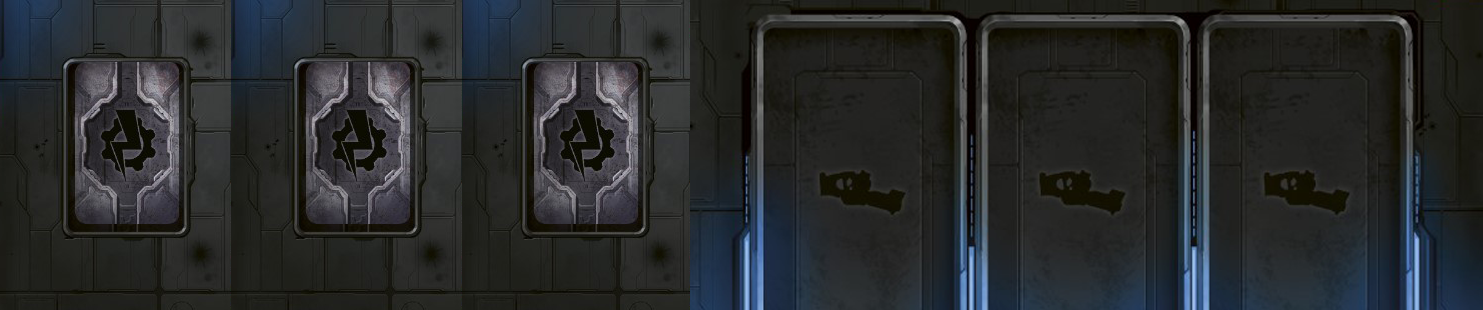
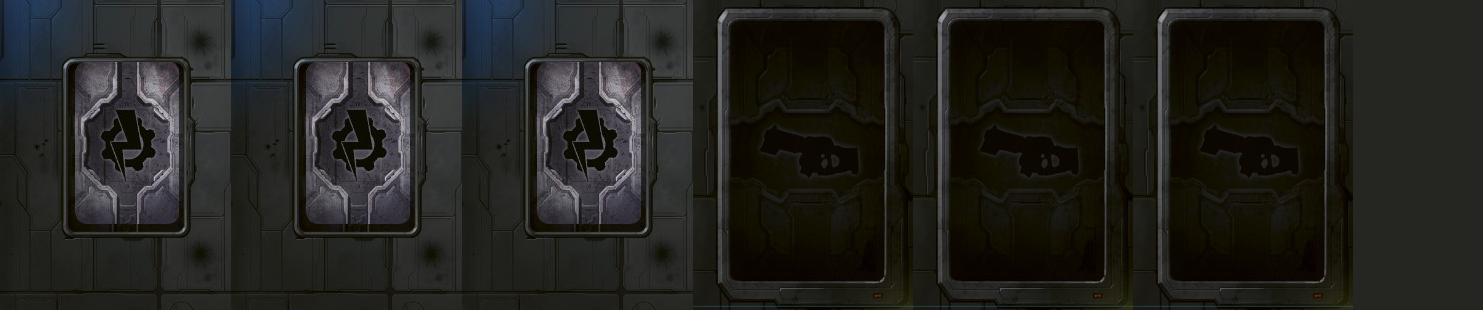
added droplet and skull

diff --git a/src/main/java/it/polimi/ingsw/client/view/ImageExample.java b/src/main/java/it/polimi/ingsw/client/view/ImageExample.java
@@ -1,24 +1,23 @@
 package it.polimi.ingsw.client.view;
-
-
 import javafx.animation.PauseTransition;
 import javafx.application.Application;
+import javafx.beans.value.ChangeListener;
+import javafx.beans.value.ObservableValue;
 import javafx.event.EventHandler;
 import javafx.geometry.Insets;
 import javafx.scene.Scene;
 import javafx.scene.control.Button;
 import javafx.scene.image.Image;
 import javafx.scene.image.ImageView;
+import javafx.scene.input.KeyCombination;
 import javafx.scene.input.MouseEvent;
 import javafx.scene.layout.BorderPane;
 import javafx.scene.layout.Pane;
 import javafx.stage.Stage;
 import javafx.util.Duration;
-
 import java.io.FileInputStream;
 import java.io.FileNotFoundException;
 import java.net.URL;
-
 public class ImageExample extends Application {
 
     private final static String MAP1 = "/img/maps/4.png";
@@ -48,6 +47,8 @@ public class ImageExample extends Application {
     private final static String AMMO = "/img/ammo/AD_ammo_0434.png";
     private final static String BOARDINO = "/img/tabs/boardino.png";
     private final static String MYDASHBOARD = "/img/tabs/mydashboard.png";
+    public static final String SKULL = "/img/others/skull.png";
+
     public static final double ISTANT_RESIZE = 1.01;
     public static final double DELAY_IN = 0.4;
     public static final int DELEYED_RESIZE = 2;
@@ -85,22 +86,16 @@ public class ImageExample extends Application {
         Image pawn = new Image(new FileInputStream(urlPawn.getFile().replace("%20", " ")));
         URL urlAmmo = getClass().getResource(AMMO);
         Image ammo = new Image(new FileInputStream(urlAmmo.getFile().replace("%20", " ")));
-       // URL urlBoardino = getClass().getResource(BOARDINO);
-       // Image boardino = new Image(new FileInputStream(urlBoardino.getFile().replace("%20", " ")));
         URL urlMydashboard = getClass().getResource(MYDASHBOARD);
         Image mydashboard = new Image(new FileInputStream(urlMydashboard.getFile().replace("%20", " ")));
+        URL urlSkull = getClass().getResource(SKULL);
+        Image skull = new Image(new FileInputStream(urlSkull.getFile().replace("%20", " ")));
         ImageView mapView = new ImageView(map);
-        ImageView tab1View = new ImageView(tab1);
-        ImageView tab2View = new ImageView(tab2);
-        ImageView tab3View = new ImageView(tab3);
-        ImageView tab4View = new ImageView(tab4);
-        ImageView tab5View = new ImageView(tab5);
-        ImageView cardback00View = new ImageView(cardback00);
-      //  ImageView cardback01View = new ImageView(cardback01);
-     //   ImageView boardinoView = new ImageView(boardino);
+        ImageView mytabView = new ImageView(tab5);
+       // ImageView cardback00View = new ImageView(cardback00);
         ImageView mydashboardView = new ImageView(mydashboard);
         BorderPane borders = new BorderPane();
-        Pane root = new Pane(mapView, cardback00View, tab1View, tab2View, tab3View, tab4View, tab5View, mydashboardView);
+        Pane root = new Pane(mapView, mytabView, mydashboardView);
 
         borders.setCenter(root);
 
@@ -118,8 +113,20 @@ public class ImageExample extends Application {
 
 
         //Adding scene to the stage
+
         stage.setScene(scene);
-        stage.setMaximized(true);
+        stage.setFullScreen(true);
+        stage.setFullScreenExitKeyCombination(KeyCombination.NO_MATCH);
+        stage.fullScreenProperty().addListener(new ChangeListener<Boolean>() {
+
+            @Override
+            public void changed(ObservableValue<? extends Boolean> observable,
+                                Boolean oldValue, Boolean newValue) {
+                if(newValue != null && !newValue.booleanValue())
+                    stage.setFullScreen(true);
+
+            }
+        });
         stage.setResizable(false);
         //Displaying the contents of the stage
         stage.show();
@@ -150,19 +157,12 @@ public class ImageExample extends Application {
         double ammoSize = (width16*0.055);
         double dropletSize = (width16*0.0149);
       //  double boardinoSize = (width16-getWidth(mapView));
-        double mydashboardSize =(width16-getWidth(tab5View));
+        double mydashboardSize =(width16-getWidth(mytabView));
 
         // position on X and Y
 
         double mapX=0;
         double mapY=0;
-
-        double tab1Y=(height9*0.175*0);
-        double tab2Y=(height9*0.175*1);
-        double tab3Y=(height9*0.175*2);
-        double tab4Y=(height9*0.175*3);
-      //  double boardinoY=(height9*0.175*4);
-      //  double boardinoX=
         double tab0X=0;//my tab X
         double tab0Y=(mapH); //my tab Y
         double powerupsDeckX= (width16*0.54);
@@ -171,72 +171,81 @@ public class ImageExample extends Application {
         double ammoDeckY= (height9*0.1905);
 
 
-
-
-
-
-
         //Setting the position of the map
 
-        cardback00View.setX(powerupsDeckX);
-        cardback00View.setY(powerupsDeckY);
-       // cardback01View.setX(ammo2X);
-       // cardback01View.setY(ammo2_2Y);
+      //  cardback00View.setX(powerupsDeckX);
+      //  cardback00View.setY(powerupsDeckY);
+
         mapView.setX(mapX);
         mapView.setY(mapY);
 
-        tab5View.setX(tab0X);
-        tab5View.setY(tab0Y);
-
-
-
+        mytabView.setX(tab0X);
+        mytabView.setY(tab0Y);
 
         //Setting the preserve ratio of the map view
         mapView.setPreserveRatio(true);
-        tab1View.setPreserveRatio(true);
-        tab2View.setPreserveRatio(true);
-        tab3View.setPreserveRatio(true);
-        tab4View.setPreserveRatio(true);
-        tab5View.setPreserveRatio(true);
-        cardback00View.setPreserveRatio(true);
+      //  cardback00View.setPreserveRatio(true);
         mydashboardView.setPreserveRatio(true);
-     //   boardinoView.setPreserveRatio(true);
-        //cardback01View.setPreserveRatio(true);
-        //setting the fit height and width of the map view
-
+        mytabView.setPreserveRatio(true);
 
         mapView.setFitHeight(mapH);
-
-        double tab1size= (width16-getWidth(mapView));
-        double tab2Size =(width16-getWidth(mapView));
-        double tab3Size = (width16-getWidth(mapView));
-        double tab4Size =(width16-getWidth(mapView));
-
-        double tabOthers=(getWidth(mapView));
-        tab1View.setX(tabOthers);
-        tab1View.setY(tab1Y);
-        tab2View.setX(tabOthers);
-        tab2View.setY(tab2Y);
-        tab3View.setX(tabOthers);
-        tab3View.setY(tab3Y);
-        tab4View.setX(tabOthers);
-        tab4View.setY(tab4Y);
-      //  boardinoView.setX(tabOthers);
-      //  boardinoView.setY(boardinoY);
-
-
-        tab1View.setFitWidth(tab1size);
-        tab2View.setFitWidth(tab2Size);
-        tab3View.setFitWidth(tab3Size);
-        tab4View.setFitWidth(tab4Size);
-        tab5View.setFitHeight(height9-mapH);
-        cardback00View.setFitWidth(powerupsSize);
+        mytabView.setFitHeight(height9-mapH);
+       // cardback00View.setFitWidth(powerupsSize);
        // boardinoView.setFitWidth(tab4Size);
-        mydashboardView.setFitWidth(width16-getWidth(tab5View));
-        mydashboardView.setX(getWidth(tab5View));
+        mydashboardView.setFitWidth(width16-getWidth(mytabView));
+        mydashboardView.setX(getWidth(mytabView));
         mydashboardView.setY(mapH);
 
-        //double tab1droplet1Y = (getHeight(tab1View)*0.2); //riga fino a 4
+        //others's tab for
+        double tabLeftOffsetY = height9 * 0.175;
+        double tabLeftBaseX = getWidth(mapView);
+        double tabLeftBaseY = 0;
+        double tabLeftSize= (width16-getWidth(mapView));
+        for (int i=0; i<4; i++){
+            {
+                ImageView tab1View = new ImageView(tab1);
+                tab1View.setX(tabLeftBaseX);
+                tab1View.setY(tabLeftBaseY+tabLeftOffsetY*i);
+                tab1View.setFitWidth(tabLeftSize);
+                tab1View.setPreserveRatio(true);
+                root.getChildren().add(tab1View);
+
+
+            }
+        }
+
+
+        //droplet for
+        double dropletOffsetX = height9 * 0.045;
+        double dropletOffsetX2 = height9 * 0.008;
+        double dropletBaseX = width16*0.042;
+        double dropletBaseY = height9*0.032;
+        double dropletSize1= width16*0.024;
+        for (int i=0; i<8; i++){
+            {
+                ImageView dropletView  = new ImageView(droplet);
+                ImageView droplet2View = new ImageView(droplet);
+                droplet2View.setY(dropletBaseY);
+                droplet2View.setX(dropletBaseX+dropletOffsetX*i+dropletOffsetX2);
+                dropletView.setY(dropletBaseY);
+                dropletView.setX(dropletBaseX+dropletOffsetX*i);
+                dropletView.setFitWidth(dropletSize1);
+                droplet2View.setFitWidth(dropletSize1);
+                droplet2View.setPreserveRatio(true);
+                dropletView.setPreserveRatio(true);
+                root.getChildren().add(droplet2View);
+                root.getChildren().add(dropletView);
+
+
+            }
+        }
+
+
+
+
+
+
+         //double tab1droplet1Y = (getHeight(tab1View)*0.2); //riga fino a 4
         //double tab1droplet1X = (width16*((0.6220+(0.0215*6)))); //colonna fino a 10
         double tabDropletY0 = height9*0.07;
         double tabDropletX0 = width16*0.64;
@@ -244,15 +253,55 @@ public class ImageExample extends Application {
         double tabDropletOffX = width16*0.022;
 
         for(int i = 0; i<4; i++){
-            for(int j = 0 ; j <10;j++){
+            for(int j = 0 ; j <12;j++){
                 ImageView dropletView = new ImageView(droplet);
                 dropletView.setX(tabDropletX0+tabDropletOffX*j);
                 dropletView.setY(tabDropletY0+tabDropletOffY*i);
                 dropletView.setPreserveRatio(true);
-                dropletView.setFitWidth(tab1size*0.04);
+                dropletView.setFitWidth(tabLeftSize*0.04);
                 root.getChildren().add(dropletView);
             }
         }
+
+        double tabDropletUPY0 = height9*0;
+        double tabDropletUPX0 = width16*0.82;
+        double tabDropletOffUPY = height9*0.175;
+        double tabDropletOffUPX = width16*0.022;
+
+        for(int i = 0; i<4; i++){
+            for(int j = 0 ; j <3;j++){
+                ImageView dropletView = new ImageView(droplet);
+                dropletView.setX(tabDropletUPX0+tabDropletOffUPX*j);
+                dropletView.setY(tabDropletUPY0+tabDropletOffUPY*i);
+                dropletView.setPreserveRatio(true);
+                dropletView.setFitWidth(tabLeftSize*0.04);
+                root.getChildren().add(dropletView);
+            }
+        }
+
+        double tabSkullY0 = height9*0.125;
+        double tabSkullX0 = width16*0.675;
+        double tabSkullOffY = height9*0.175;
+        double tabSkullOffX = width16*0.022;
+        double tabSkullSize= tabLeftSize*0.08;
+
+        for(int i = 0; i<4; i++){
+            for(int j = 0 ; j <6;j++){
+                ImageView skullView = new ImageView(skull);
+                skullView.setX(tabSkullX0+tabSkullOffX*j);
+                skullView.setY(tabSkullY0+tabSkullOffY*i);
+                skullView.setPreserveRatio(true);
+                skullView.setFitWidth(tabSkullSize);
+                root.getChildren().add(skullView);
+            }
+        }
+
+
+
+
+
+
+
 
 
 // weapon box
@@ -267,11 +316,6 @@ public class ImageExample extends Application {
         double ammo1Y = 0;
         double ammo1rotation = 0;
         double weaponBase1X = width16*0.318;
-        // offset x check if is = a offset Y
-
-      //  double ammo1_1X = (width16*0.317);
-      //  double ammo1_2X = (width16*0.383);
-      //  double ammo1_3X = (width16*0.449);
 
         for(int i = 0; i<3; i++){
             {
@@ -306,6 +350,42 @@ public class ImageExample extends Application {
                 cardback01View.setFitWidth(ammoSize);
                 cardback01View.setRotate(ammo1rotation);
                 root.getChildren().add(cardback01View);
+            }
+        }
+
+        //weapon my dashboard
+
+        double weaponOffsetMyDashboardX = height9 * 0.145;
+        double weaponBaseMyDashboardX=width16*0.725;
+        double weaponBaseMyDashboardY=height9*0.815;
+
+
+        for(int i = 0; i<3; i++){
+            {
+                ImageView cardback01View = new ImageView(cardback01);
+                cardback01View.setY(weaponBaseMyDashboardY);
+                cardback01View.setX(weaponBaseMyDashboardX+weaponOffsetMyDashboardX*i);
+                cardback01View.setPreserveRatio(true);
+                cardback01View.setFitWidth(ammoSize);
+                root.getChildren().add(cardback01View);
+            }
+        }
+
+        //powerups my dashboard
+
+        double powerupOffsetMyDashboardX = height9 * 0.15;
+        double powerupMyDashboardX=width16*0.48;
+        double powerupBaseMyDashboardY=height9*0.815;
+
+
+        for(int i = 0; i<3; i++){
+            {
+                ImageView cardback00View = new ImageView(cardback00);
+                cardback00View.setY(powerupBaseMyDashboardY);
+                cardback00View.setX(powerupMyDashboardX+powerupOffsetMyDashboardX*i);
+                cardback00View.setPreserveRatio(true);
+                cardback00View.setFitWidth(ammoSize);
+                root.getChildren().add(cardback00View);
             }
         }
 
